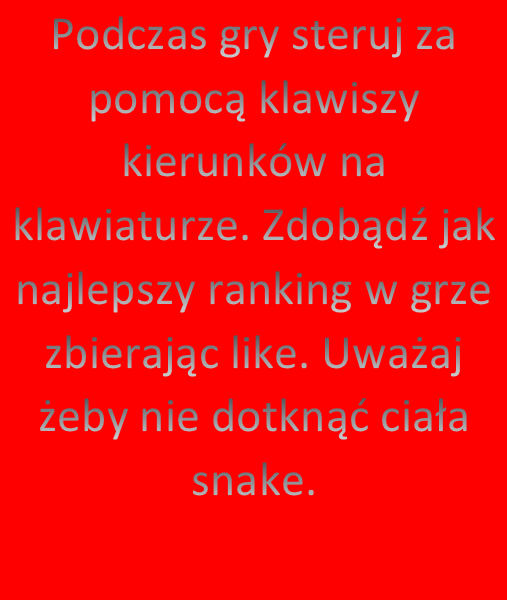
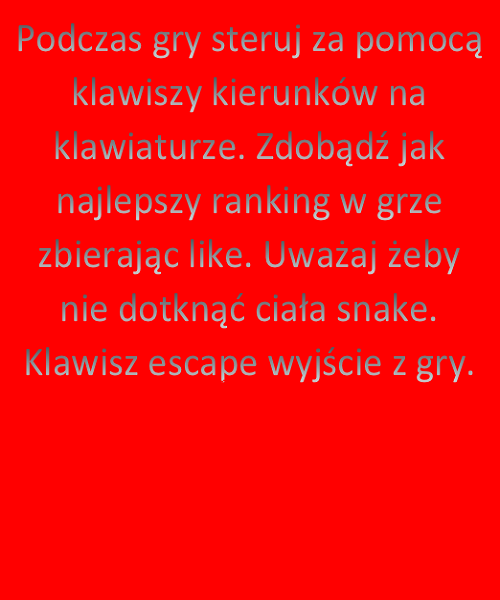
Complete add function points player and when snake eat like speed game upper

Changed region(s): [[0.03, 0.03, 0.99, 0.75], [0.06, 0.66, 0.39, 0.75], [0.36, 0.75, 0.63, 0.84]]

diff --git a/script/game.js b/script/game.js
@@ -9,6 +9,9 @@ var foodPosition;
 var addNewDiv;
 var numberRadius;
 var nextPressKey;
+var points;
+var upSpeedSnake;
+var addPoints;
 
 var snake =
     {
@@ -23,6 +26,8 @@ init = function()
 {
     document.getElementById('game').style.backgroundImage = "unset";
     setViewButtonMenu("none");
+    document.getElementById('table-points').style.display = "block";
+    document.getElementById('set-picture').src = '';
     snake.vector = ['up','up','up'];
     snake.body = [[12,12],[12,13],[12,14]]
     snakeNode = [];
@@ -31,9 +36,12 @@ init = function()
     addNewDiv = false;
     nextPressKey = true;
     gameResolution = [24,24];
+    points = 0;
+    upSpeedSnake = 6000;
+    addPoints = false;
     getNewFoodPosition();
     addBeginBodySnake();
-    refreshGame = setInterval(drawSnake,5000/60);
+    refreshGame = setInterval(drawSnake,upSpeedSnake/60);
 };
 
 hideButtonMenu = function ()
@@ -103,7 +111,7 @@ addBeginBodySnake = function()
         snakeNode[i].style.left = (snake.body[i][0] * 20).toString() + 'px';
         snakeNode[i].style.top = (snake.body[i][1] * 20).toString() + 'px';
     }
-}
+};
 
 moveSnake = function()
 {
@@ -144,6 +152,8 @@ moveSnake = function()
         newVector.push(snake.vector[snake.vector. length - 1]);
         getNewFoodPosition();
         addNewDiv = !addNewDiv;
+        points += 10;
+        addPoints = !addPoints;
     }
 
     snake.body = newSnakebody;
@@ -221,9 +231,9 @@ const onKeyDown = (e) =>
                     }
                     break;
 
-                case 13:
-                    clearTimeout(clearTimeDeleteDiv);
-                    init();
+                case 27:
+                    clearInterval(refreshGame);
+                    onDeleteDiv();
                     break;
             }
 
@@ -239,7 +249,7 @@ drawSnake = function()
         snakeNode[i].style.top = (snake.body[i][1]* 20).toString() + 'px';
         changeDivImg(i);
     }
-
+    document.getElementById('player-points').innerText = "Points : " + points;
     moveSnake();
     onYourOwnBody();
     onWallSnake();
@@ -247,6 +257,13 @@ drawSnake = function()
     if(!nextPressKey)
     {
         nextPressKey = !nextPressKey;
+    }
+    if(addPoints)
+    {
+        upSpeedSnake -= 25;
+        addPoints = !addPoints;
+        clearInterval(refreshGame);
+        refreshGame = setInterval(drawSnake,upSpeedSnake/60);
     }
 };
 
@@ -260,7 +277,7 @@ onYourOwnBody = function ()
             clearTimeDeleteDiv = setTimeout(onDeleteDiv, 2000);
         }
     }
-}
+};
 
 onDeleteDiv = function ()
 {
@@ -268,7 +285,13 @@ onDeleteDiv = function ()
     {
         document.getElementById('game').removeChild(snakeNode[i]);
     }
-}
+
+    setViewButtonMenu('block');
+    document.getElementById('set-picture').src = 'images/tubeMenu.jpg';
+    fruitNode.innerHTML = '<img src=""/>';
+    clearTimeout(clearTimeDeleteDiv);
+    document.getElementById('table-points').style.display = "none";
+};
 
 onWallSnake = function()
 {
@@ -292,7 +315,7 @@ onWallSnake = function()
         snake.body[0][1] = 24;
     }
 
-}
+};
 
 changeDivImg = function (number)
 {
@@ -375,7 +398,7 @@ onRadiusBody = function(snakeBody)
         }
     }
     return false;
-}
+};
 
 addDivSnake = function()
 {

diff --git a/css/styles.css b/css/styles.css
@@ -215,13 +215,6 @@ nav.navbar.navbar-default.navbar-fixed-top{
     display: none;
 }
 
-#fruit
-{
-    position: absolute;
-    width: 20px;
-    height: 20px;
-}
-
 #start-game
 {
     position: absolute;
@@ -271,8 +264,6 @@ nav.navbar.navbar-default.navbar-fixed-top{
 {
     text-align: center;
     line-height: 50px;
-    padding-left: 50px;
-    padding-right: 50px;
     color: black;
     font-style: italic;
 }
@@ -281,6 +272,33 @@ nav.navbar.navbar-default.navbar-fixed-top{
 {
     cursor: pointer;
     background-color: #1b6d85;
+}
+
+#fruit
+{
+    position: absolute;
+    width: 20px;
+    height: 20px;
+}
+
+#table-points
+{
+    position: absolute;
+    height: 99px;
+    width: 100%;
+    background-color: white;
+    border-top: 2px solid black;
+    top: 501px;
+    display: none;
+}
+
+#table-points p
+{
+    text-align: center;
+    line-height: 99px;
+    color: black;
+    font-style: italic;
+    font-size: 20px;
 }
 
 /*### PIOTREK ### feature-team ### Informacja o zespole*/

diff --git a/script/checkEmail.js b/script/checkEmail.js
@@ -12,17 +12,11 @@ email =
             if (this.textEmail === '')
             {
                 this.badText.innerText = "Nie podałeś emaila";
-                this.badText.innerText = "";
-                againClick = !againClick;
-                viewMenu();
             }
 
             else if ((this.textEmail.indexOf('@', 1) === -1) || (this.textEmail.indexOf('.', 1) === -1))
             {
                 this.badText.innerText = "Nie poprawny format";
-                this.badText.innerText = "";
-                againClick = !againClick;
-                viewMenu();
             }
 
             else
@@ -32,7 +26,7 @@ email =
                 viewMenu();
             }
         }
-    },
+    }
 };
 
 

diff --git a/index.html b/index.html
@@ -125,6 +125,9 @@
                     <p>WYJŚCIE</p>
                 </div>
                 <div id="fruit"></div>
+                <div id="table-points">
+                    <p id="player-points"></p>
+                </div>
 			</div>
 		</section>
 

diff --git a/script/menuGame.js b/script/menuGame.js
@@ -30,5 +30,5 @@ backInstruction = function ()
     document.getElementById('set-picture').src = 'images/tubeMenu.jpg';
     setViewButtonMenu("block");
     document.getElementById('back-instruction').style.display = "none";
-}
+};
 
